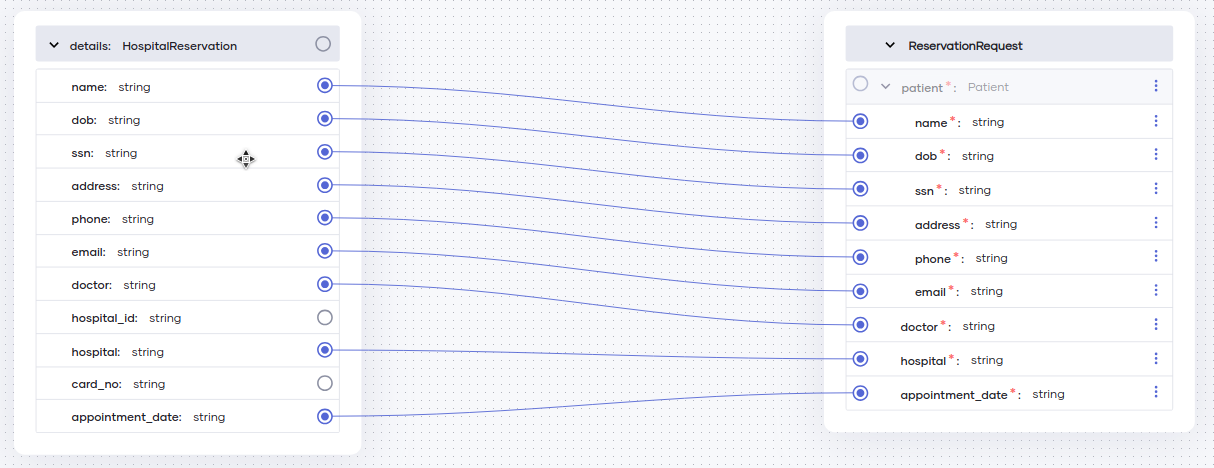
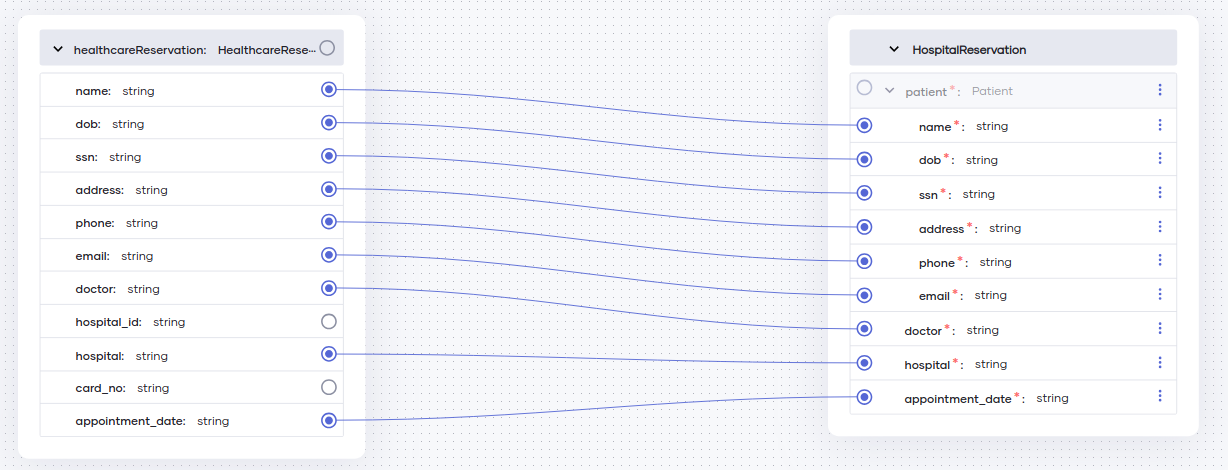
Update images, main.bal and README.md

diff --git a/transform-message-formats/README.md b/transform-message-formats/README.md
@@ -141,19 +141,19 @@ function initializeHttpClient() returns http:Client|error => new (hospitalServic
     The source code of the `transform` function will be as follows.
 
     ```ballerina
-    isolated function transform(HealthcareReservation details) returns HospitalReservation => {
-        patient: {
-            name: details.name,
-            dob: details.dob,
-            ssn: details.ssn,
-            address: details.address,
-            phone: details.phone,
-            email: details.email
-        },
-        doctor: details.doctor,
-        hospital: details.hospital,
-        appointment_date: details.appointment_date
-    };
+    isolated function transform(HealthcareReservation healthcareReservation) returns HospitalReservation => {
+    patient: {
+        name: healthcareReservation.name,
+        dob: healthcareReservation.dob,
+        ssn: healthcareReservation.ssn,
+        address: healthcareReservation.address,
+        phone: healthcareReservation.phone,
+        email: healthcareReservation.email
+    },
+    doctor: healthcareReservation.doctor,
+    hospital: healthcareReservation.hospital,
+    appointment_date: healthcareReservation.appointment_date
+};
     ```
 
 6. Define rest of the records corresponding to the response payloads. The final set of records will look like this.
